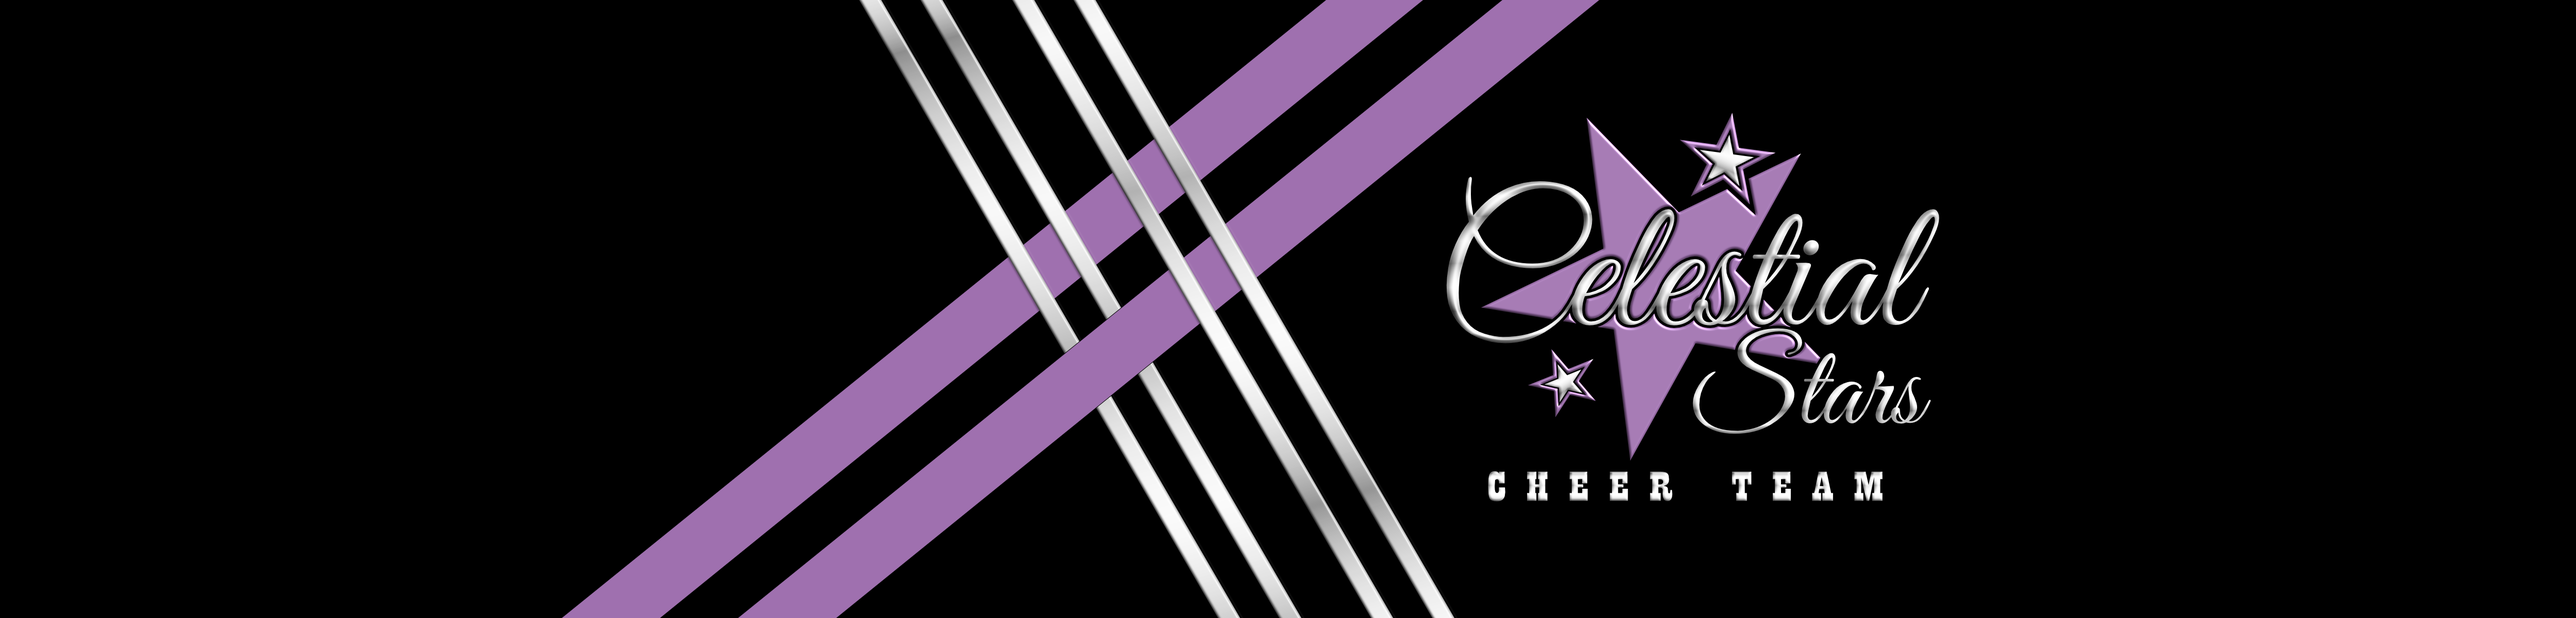
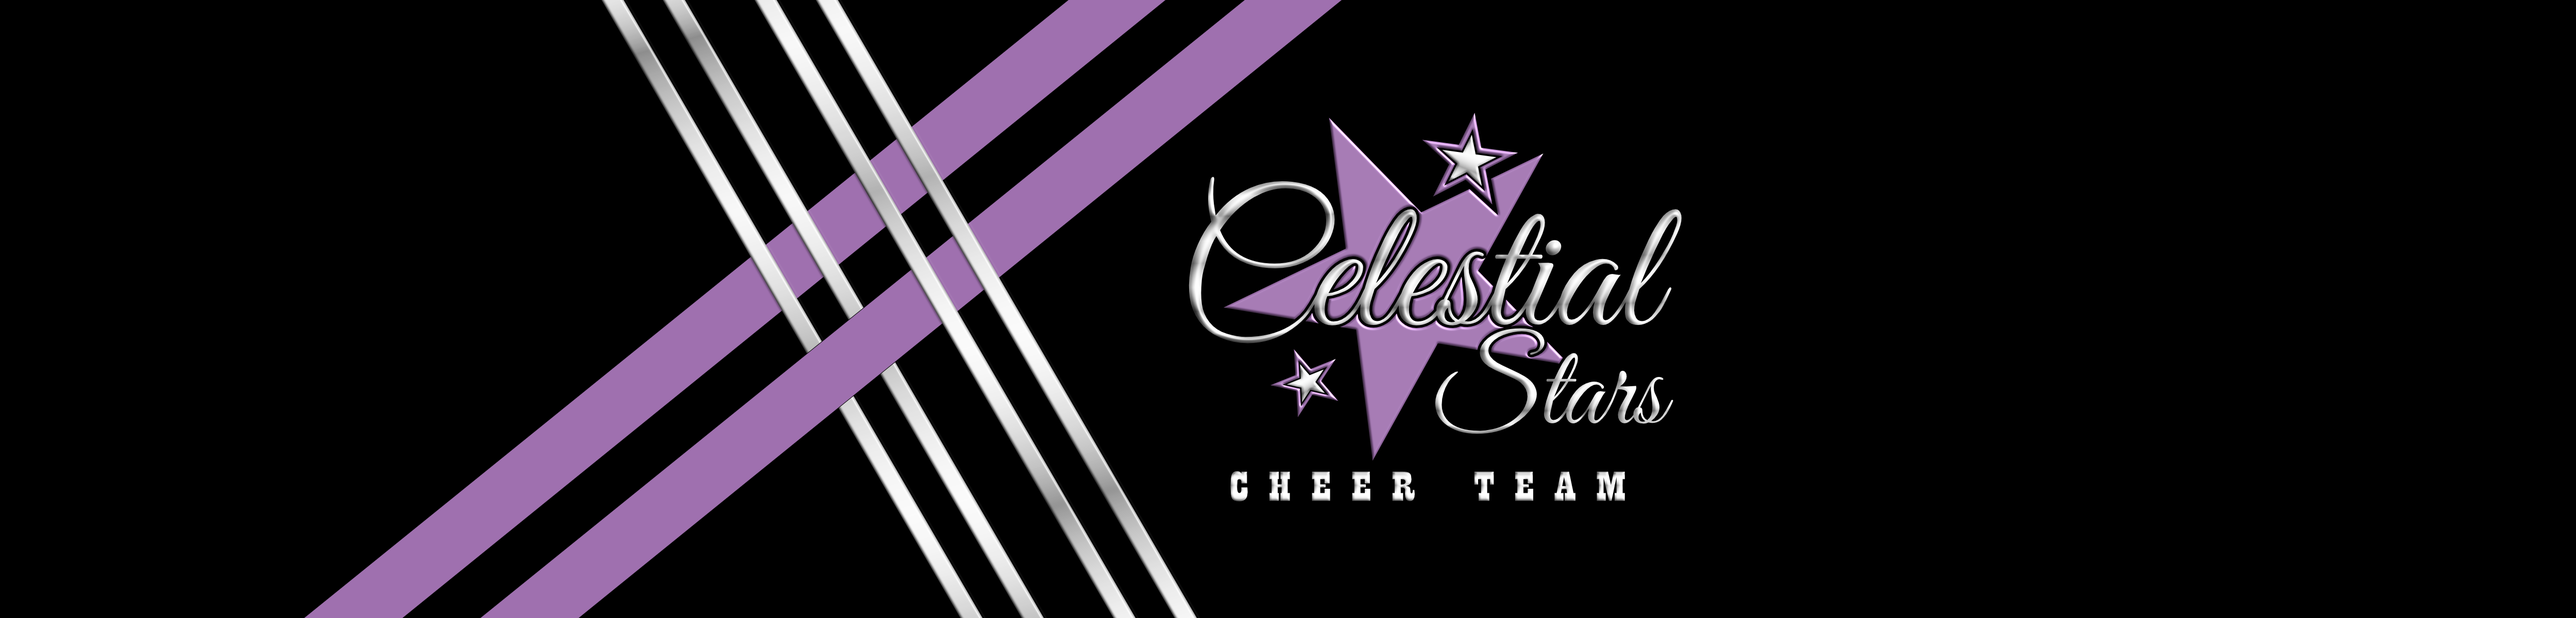
Fixed things...?

Changed region(s): [[0.0936, 0.0, 0.7488, 1.0]]

diff --git a/styles.css b/styles.css
@@ -37,7 +37,7 @@ dt {
 /* Header pic */
 .grid-pic {
     align-content: center;
-    background-image: url(assets/header.jpg);
+    background-image: url(assets/header.png);
     background-size: cover;
     background-position: center;
     grid-row: 1;
@@ -128,23 +128,20 @@ footer div {
 /* Media queries */
 @media only screen and (orientation: portrait) and (max-width: 425px) {
     .grid-content {
-        grid-template-columns: 15% 70% 15%;
+        grid-template-columns: 0% 100% 0%;
     }
-    .center-side-left {
-        display: none;
-    }
-    .center-side-right {
+    .center-side-left, .center-side-right {
         display: none;
     }
 }
-@media only screen and (orientation: landscape) and (min-width: 768px) {
+@media only screen and (min-width: 768px) {
     .grid-content {
-        grid-template-columns: 15% 70% 15%;
+        grid-template-columns: 5% 90% 5%;
      }
 }
 @media only screen and (orientation: landscape) and (min-width: 1024px) {
     .grid-content {
-        grid-template-columns: 15% 70% 15%;
+        grid-template-columns: 5% 90% 5%;
     }
 }
 @media only screen and (orientation: landscape) and (min-width: 1440px) {
